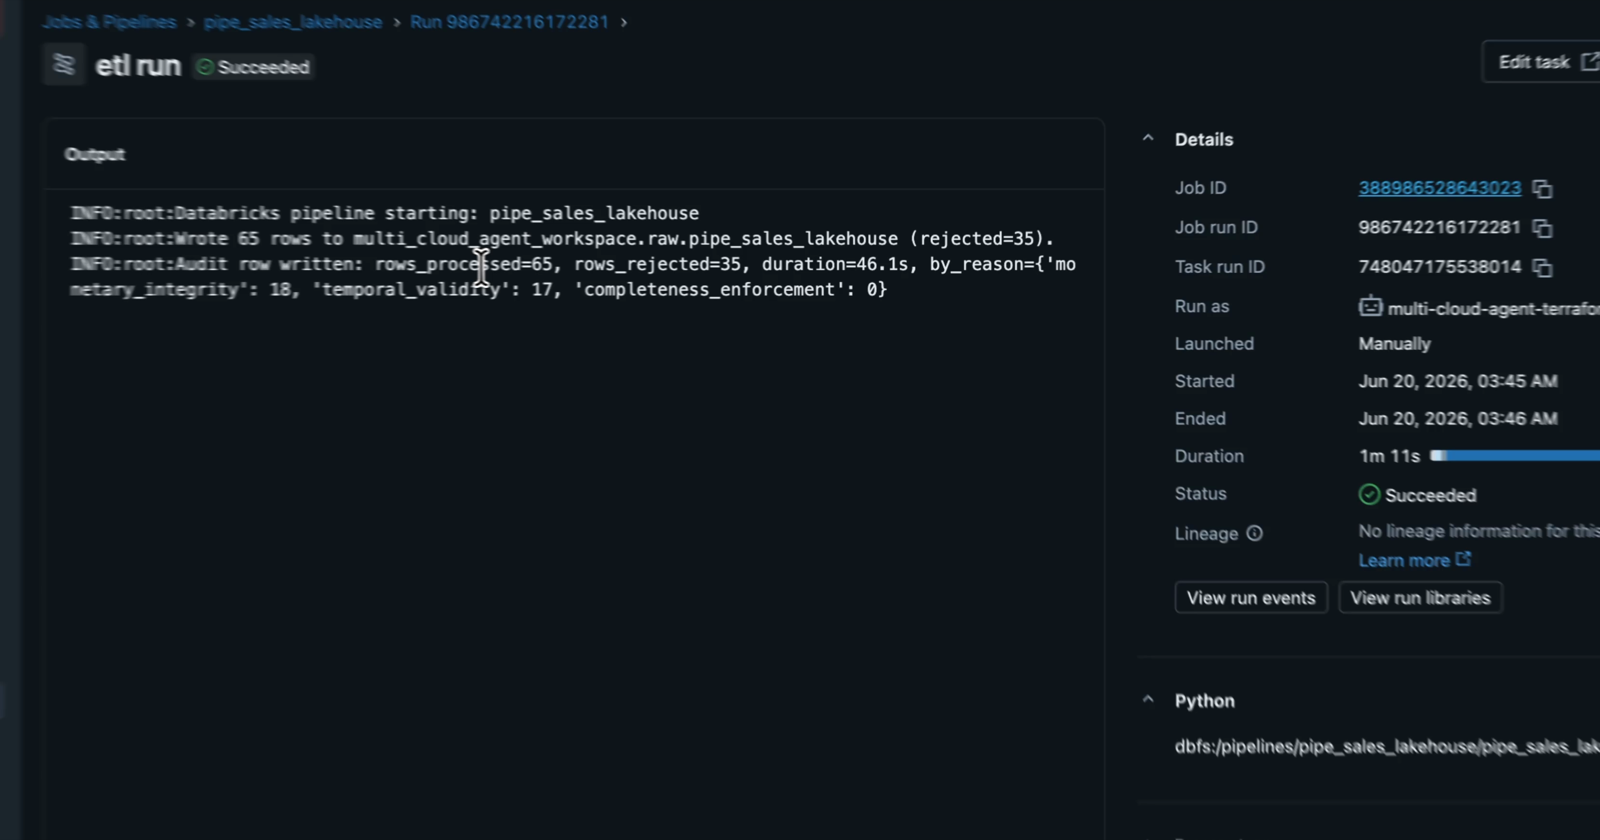
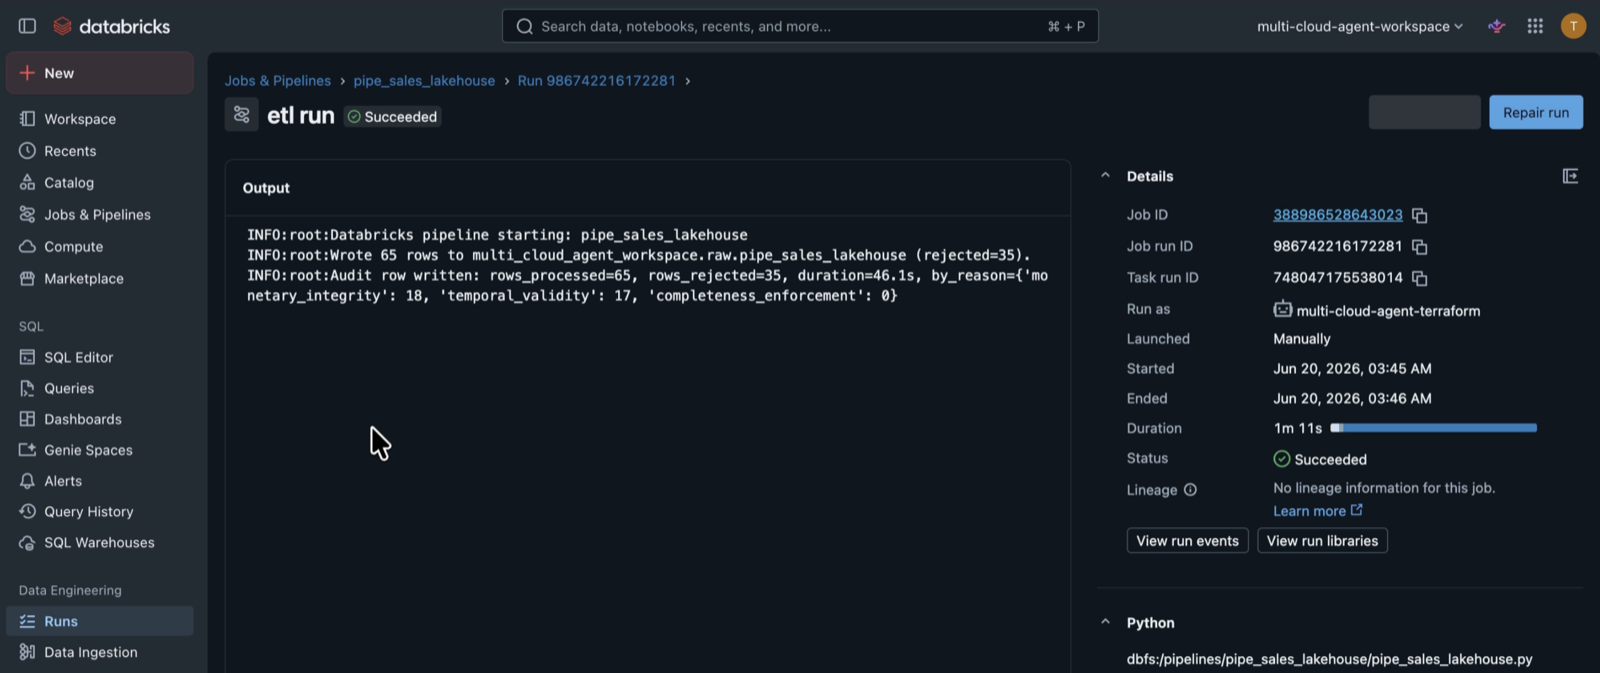
docs(readme): add contents, fix self-heal framing, complete Lakeview + rule-builder + dispatch visuals
- Add a table of contents.
- Drop the per-cloud 'Self-heal' column: it wrongly implied each cloud heals a
  different part. The loop is one shared code path; only the injected defect
  differed per run. Column is now 'Validated: deploy + self-heal' for all four,
  with a note stating the mechanism is cloud-agnostic.
- Lakeview dashboard now shows both halves (counters + rejections by reason);
  Unity Catalog table promoted to its own full-width figure.
- Natural-language authoring: add the 'build my own rules' flow (2 images).
- Quickstart: pair the pipeline picker with the KB-sync / chaos-seed dispatch.
- Replaced databricks-job-succeeded (sharper frame) and cropped streamlit-business-rules.

diff --git a/README.md b/README.md
@@ -22,6 +22,24 @@ When a deployment fails, the agent reads the real CI logs, diagnoses the error w
 
 ---
 
+## Contents
+
+- [It fixes itself — here is the proof](#it-fixes-itself--here-is-the-proof)
+  - [It heals at runtime too](#it-heals-at-runtime-too--not-just-at-generation-time) · […and when it can't, it stops](#and-when-it-cant-fix-it-it-stops)
+- [Validated end-to-end — on all four clouds](#validated-end-to-end--on-all-four-clouds)
+- [How it works](#how-it-works)
+  - [The self-healing loop](#the-self-healing-loop) · [Where the LLM works — and where it must not](#where-the-llm-works--and-where-it-must-not) · [Standards-first generation (RAG)](#standards-first-generation-rag)
+- [Cloud-agnostic by construction](#cloud-agnostic-by-construction)
+- [Observability](#observability--provisioned-by-the-agent-not-by-hand)
+- [Natural-language authoring](#natural-language-authoring)
+- [From config to running infrastructure](#from-config-to-running-infrastructure)
+- [Repository map — source vs. generated](#repository-map--source-vs-generated)
+- [Quickstart](#quickstart) · [Testing](#testing)
+- [Engineering decisions a reviewer should notice](#engineering-decisions-a-reviewer-should-notice)
+- [Documentation](#documentation) · [License](#license)
+
+---
+
 ## It fixes itself — here is the proof
 
 A generated pipeline script failed validation. Nobody touched it. The Medic diagnosed it, routed it to the Architect, patched the exact line, and re-validated — in **22 seconds**.
@@ -80,12 +98,14 @@ The heal is **bounded** (3 identical errors, or 8 total rounds) and **fail-close
 
 Every row is a real pipeline that ran to completion on live cloud infrastructure — chaos-seeded dirty source data in, partitioned clean data + populated dashboards out — then torn down to zero cost.
 
-| Cloud | Pipeline | Source → Destination | Compute | Observability | Deploy | Self-heal |
-|---|---|---|---|---|---|---|
-| 🟠 **AWS** | `eu_sales` | RDS PostgreSQL → S3 (Parquet) | EKS | Trino + Glue · Grafana | ✅ | ✅ architect + infra |
-| 🔵 **Azure** | `us_crm` | Azure PostgreSQL → ADLS Gen2 | AKS | Trino · Grafana | ✅ | ✅ infra |
-| 🟢 **GCP** | `global_marketing` | Cloud SQL MySQL → GCS | GKE | Trino · Grafana | ✅ | ✅ architect + infra |
-| ⚡ **Databricks** | `sales_lakehouse` | RDS PostgreSQL → Delta Lake | Spark (jobs cluster) | Unity Catalog · Lakeview | ✅ | ✅ **job-runtime** |
+| Cloud | Pipeline | Source → Destination | Compute | Observability | Validated |
+|---|---|---|---|---|---|
+| 🟠 **AWS** | `eu_sales` | RDS PostgreSQL → S3 (Parquet) | EKS | Trino + Glue · Grafana | ✅ deploy + self-heal |
+| 🔵 **Azure** | `us_crm` | Azure PostgreSQL → ADLS Gen2 | AKS | Trino · Grafana | ✅ deploy + self-heal |
+| 🟢 **GCP** | `global_marketing` | Cloud SQL MySQL → GCS | GKE | Trino · Grafana | ✅ deploy + self-heal |
+| ⚡ **Databricks** | `sales_lakehouse` | RDS PostgreSQL → Delta Lake | Spark (jobs cluster) | Unity Catalog · Lakeview | ✅ deploy + self-heal |
+
+> The self-healing loop is **one code path shared by every cloud** — the same router, the same evidence gate, the same patch mechanism. Which *kind* of failure each run happened to hit (a bad script, a bad Terraform value, a failing Spark job) differs only because a different defect was injected; it is not a per-cloud capability.
 
 The three object-storage clouds share one cloud-agnostic execution model (pandas → Parquet → Trino → Grafana on Kubernetes). Databricks is a deliberately distinct fourth model (Spark → Delta → Unity Catalog → Lakeview) selected by the same `provider:` switch — proving the architecture generalizes across genuinely different platforms, not just across vendor APIs.
 
@@ -244,10 +264,15 @@ Databricks ships the native equivalent — a **Lakeview** dashboard over a per-r
 
 <table>
 <tr>
-<td width="50%"><img src="images/databricks-lakeview-dashboard.png" alt="Databricks Lakeview dashboard"><br><sub>Lakeview dashboard — same metrics, native to the lakehouse</sub></td>
-<td width="50%"><img src="images/databricks-unity-catalog-table.png" alt="Unity Catalog Delta table"><br><sub>The Delta table in Unity Catalog — cleaned, typed, partitioned</sub></td>
+<td width="50%"><img src="images/databricks-lakeview-dashboard.png" alt="Lakeview dashboard — counters"><br><sub><b>Top</b> — rows processed, rejected, run duration, last run</sub></td>
+<td width="50%"><img src="images/dbx_dashboard.png" alt="Lakeview dashboard — rejections by reason"><br><sub><b>Bottom</b> — rejections by reason and rows over time</sub></td>
 </tr>
 </table>
+
+<p align="center">
+  <img src="images/databricks-unity-catalog-table.png" alt="Unity Catalog Delta table" width="90%"><br>
+  <sub>The Delta table in Unity Catalog — cleaned, typed, partitioned by <code>run_date</code>.</sub>
+</p>
 
 ---
 
@@ -263,6 +288,15 @@ Describe a pipeline in plain English → the system extracts a typed intent, fil
 <tr>
 <td width="50%"><img src="images/streamlit-business-rules.png" alt="Business rules"><br><sub><b>3 · Rules</b> — plain-language quality rules → real pandas conditions</sub></td>
 <td width="50%"><img src="images/streamlit-cost-comparison-full-tight.png" alt="Cost comparison"><br><sub><b>4 · Price it</b> — itemized monthly cost, all four platforms</sub></td>
+</tr>
+</table>
+
+Rules can come from a file, be suggested for your domain — or you can **build them yourself**, column by column, with the action and the generated condition shown as you go:
+
+<table>
+<tr>
+<td width="50%"><img src="images/build_my_rules.png" alt="Build your own rule"><br><sub>Pick the columns, the check and the failure action</sub></td>
+<td width="50%"><img src="images/build_my_rules1.png" alt="Rule added to the set"><br><sub>The rule joins the set — editable, removable, ready to generate</sub></td>
 </tr>
 </table>
 
@@ -337,10 +371,12 @@ make run p=sales_lakehouse    # Databricks
 
 Everything is also operable from GitHub Actions (`run_agent.yml` — `workflow_dispatch` with bootstrap / chaos / KB-sync / pipeline inputs), and every cloud tears down with one button (`destroy.yml`, typed confirmation).
 
-<p align="center">
-  <img src="images/github-run-workflow-trigger.png" alt="Run workflow" width="70%"><br>
-  <sub>One dispatch: pick the pipeline, optionally re-sync the knowledge base and seed chaos data.</sub>
-</p>
+<table>
+<tr>
+<td width="50%"><img src="images/github-run-workflow-trigger.png" alt="Pick the pipeline"><br><sub><b>Pick the pipeline</b> — <code>eu_sales</code>, <code>us_crm</code>, <code>global_marketing</code> or <code>sales_lakehouse</code></sub></td>
+<td width="50%"><img src="images/gh_kb_sync.png" alt="Sync knowledge base and seed chaos"><br><sub><b>Same dispatch</b> — re-sync the standards to Pinecone and seed dirty rows to prove the healing</sub></td>
+</tr>
+</table>
 
 ### Natural-language authoring (demo UI)
 
